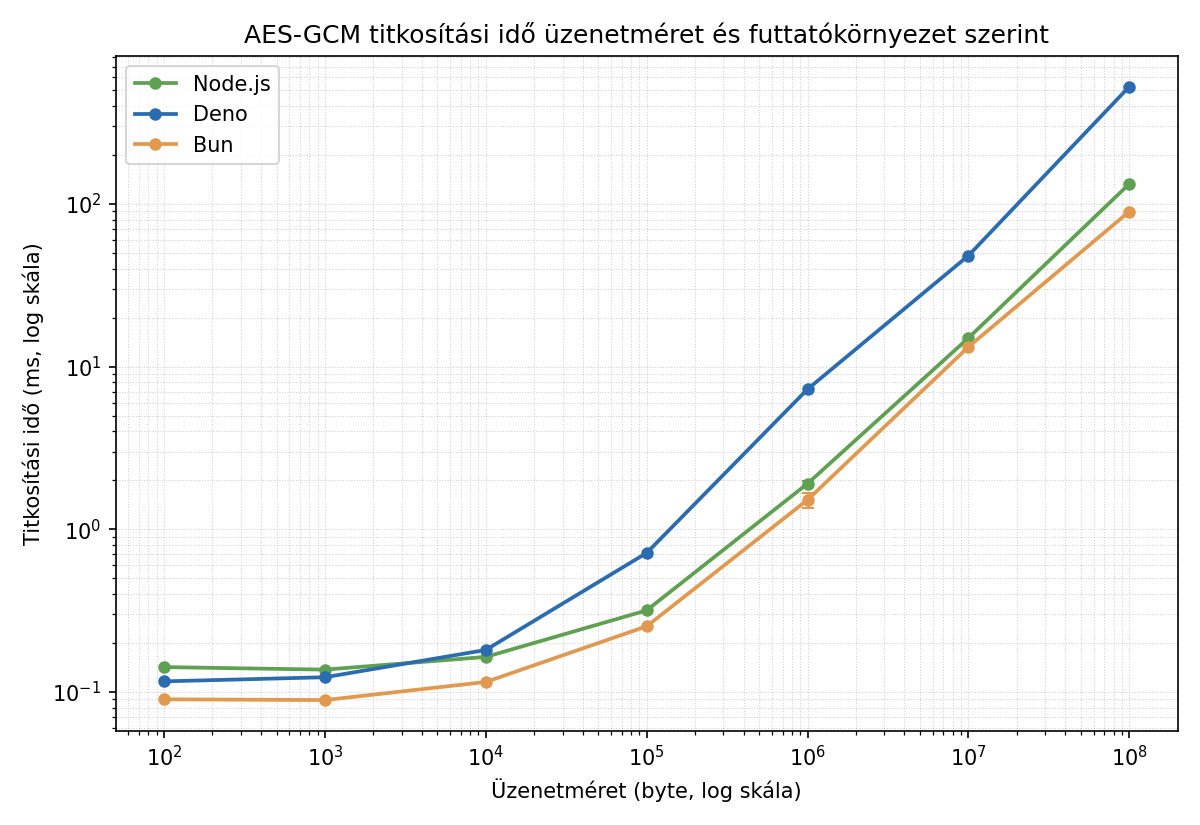
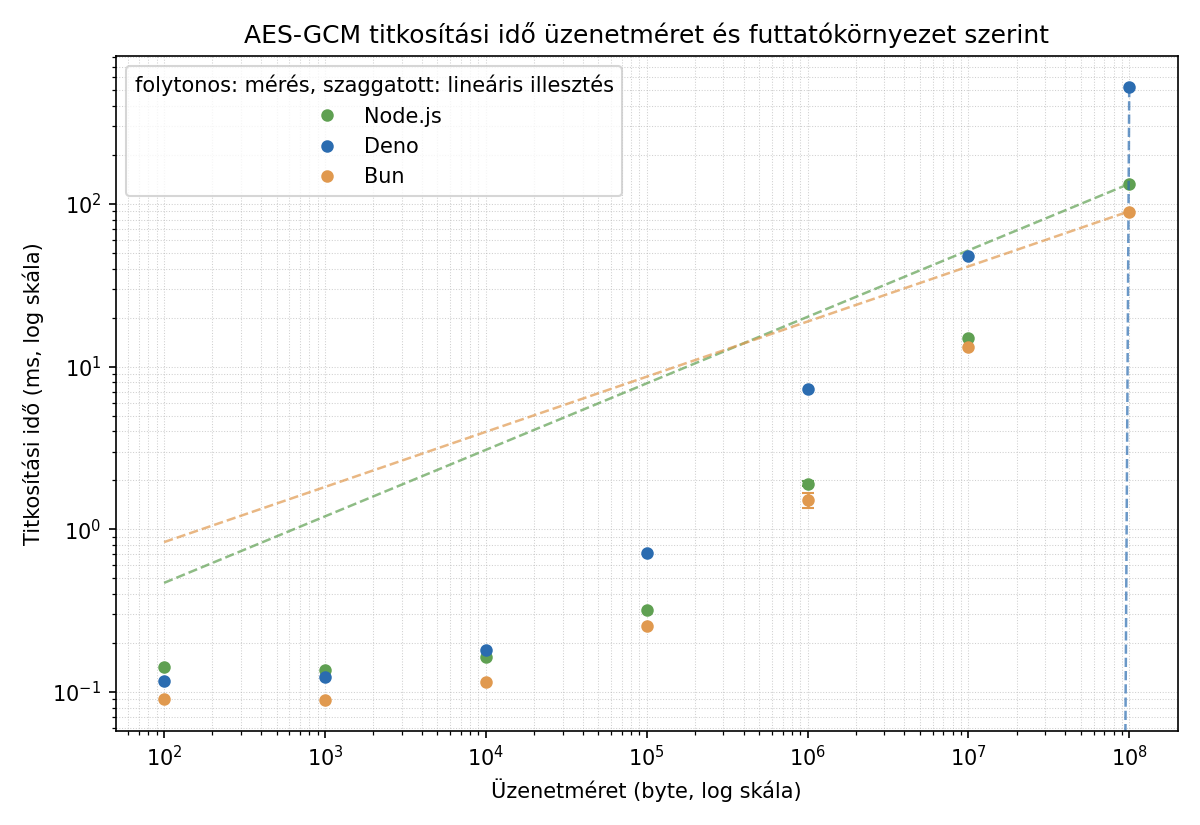
fix: correct figure numbering order, embed warm-up illustration chart
Figures were numbered 2,1,1,2 instead of 1,2,3,4 because the warm-up
chart appears before the encryption chart on the page but was
numbered '2. abra'. Also adds the regression fit line to the
encryption chart and embeds the previously-missing warm-up
illustration figure.

diff --git a/docs/benchmarks/generate_charts.py b/docs/benchmarks/generate_charts.py
@@ -100,9 +100,19 @@ def plot_encryption_chart():
         avgs = [float(r["avg_ms"]) for r in points]
 
         ax.plot(
-            sizes, avgs, "o-", color=RUNTIME_COLORS[runtime],
-            label=RUNTIME_LABELS[runtime], linewidth=1.8, markersize=5,
+            sizes, avgs, "o", color=RUNTIME_COLORS[runtime],
+            label=RUNTIME_LABELS[runtime], markersize=5,
         )
+
+        # lineáris regresszió (idő = a + b * méret), szaggatott vonallal
+        n_pts = len(sizes)
+        mean_x = sum(sizes) / n_pts
+        mean_y = sum(avgs) / n_pts
+        b = sum((x - mean_x) * (y - mean_y) for x, y in zip(sizes, avgs)) / sum((x - mean_x) ** 2 for x in sizes)
+        a = mean_y - b * mean_x
+        fit_x = [min(sizes), max(sizes)]
+        fit_y = [a + b * x for x in fit_x]
+        ax.plot(fit_x, fit_y, "--", color=RUNTIME_COLORS[runtime], linewidth=1.2, alpha=0.7)
 
         # 95%-os CI csak azoknál a pontoknál, ahol van rögzített szórás
         for r in points:
@@ -122,7 +132,7 @@ def plot_encryption_chart():
     ax.set_ylabel("Titkosítási idő (ms, log skála)")
     ax.set_title("AES-GCM titkosítási idő üzenetméret és futtatókörnyezet szerint")
     ax.grid(True, which="both", linestyle=":", linewidth=0.5, alpha=0.6)
-    ax.legend()
+    ax.legend(title="folytonos: mérés, szaggatott: lineáris illesztés")
     fig.tight_layout()
     out = HERE / "encryption-chart-v3.png"
     fig.savefig(out)

diff --git a/docs/research/node-deno-bun.md b/docs/research/node-deno-bun.md
@@ -59,12 +59,12 @@ Egy mozgóablakos becslő (20 minta/ablak) megkeresi, hol stabilizálódik a
 mért idő (egymást követő ablak-átlagok közötti relatív változás 2% alá
 csökken), és az addig eltelt mintákat warm-up mintaként eldobja.
 
-**2. ábra** a ténylegesen eldobott minták arányát mutatja méretenként és
+**1. ábra** a ténylegesen eldobott minták arányát mutatja méretenként és
 futtatókörnyezetenként:
 
 ![Warm-up kiszűrési arány](../benchmarks/warmup-cutoff-chart.png)
 
-*2. ábra: a warm-up-becslő által eldobott minták aránya az összes
+*1. ábra: a warm-up-becslő által eldobott minták aránya az összes
 mintához képest.*
 
 | Üzenetméret | Node.js eldobva/össz | Deno eldobva/össz | Bun eldobva/össz |
@@ -90,19 +90,35 @@ megbízható warm-up-becsléshez.
     futtatható (pl. `node scripts/run-pipeline.mjs --big` = ötszörös
     iterációszám), így a nagy méretű (10 MB/100 MB) pontok is elég mintát
     kapnak ahhoz, hogy a mozgóablakos becslő stabilizációs pontot
-    találjon. Ez a finomítás a jelen dokumentáció lezárásáig még nem lett
-    újrafuttatva a mérési gépen — a következő munkamenet feladata.
+    találjon.
+
+A warm-up-becslő tényleges hatását egy konkrét mérési idősoron (a
+legkisebb, 100 B-os üzenetméreten) mutatja be a **2. ábra**: minden
+pont egy nyers mérési minta (iterációnkénti titkosítási idő), a
+függőleges vonal pedig a mozgóablakos becslő által talált cutoff-pont —
+jól látszik, hogy az első néhány tucat iteráció még jelentősen lassabb
+(JIT-bemelegedés), utána a mérés stabilizálódik:
+
+![Warm-up hatás szemléltetése](../benchmarks/warmup-illustration-chart.png)
+
+*2. ábra: nyers mérési idők iterációnként, a becsült warm-up-cutoff-fal
+jelölve. A `generate_charts.py` a `--raw-samples` kapcsolóval mentett
+nyers mintákból generálja, ld. [Ábrák és nyers mérési adatok
+reprodukálása](../benchmarks/perf-hooks-example.md).*
 
 ## 1. Titkosítási művelet ideje (AES-GCM), 100 B - 100 000 000 B, warm-up kiszűrve
 
-**1. ábra** a mért átlagos titkosítási időt mutatja, 95%-os
-konfidencia-intervallummal:
+**3. ábra** a mért átlagos titkosítási időt mutatja, 95%-os
+konfidencia-intervallummal és az illesztett lineáris regressziós
+modellel (ld. lentebb):
 
 ![AES-GCM titkosítási idő üzenetméret és futtatókörnyezet szerint](../benchmarks/encryption-chart-v3.png)
 
-*1. ábra: átlagos titkosítási idő üzenetméret és futtatókörnyezet
+*3. ábra: átlagos titkosítási idő üzenetméret és futtatókörnyezet
 szerint, logaritmikus skálán. A hibasáv 95%-os konfidencia-intervallumot
-jelöl (±1,96·szórás/√n), nem a nyers szórást.*
+jelöl (±1,96·szórás/√n), nem a nyers szórást. A szaggatott vonal a
+lineáris regressziós modell illesztése (ld. "Az üzenetméret és a
+titkosítási idő közötti összefüggés" szakasz).*
 
 | Üzenetméret | Node.js átlag (ms) | Deno átlag (ms) | Bun átlag (ms) |
 |---:|---:|---:|---:|